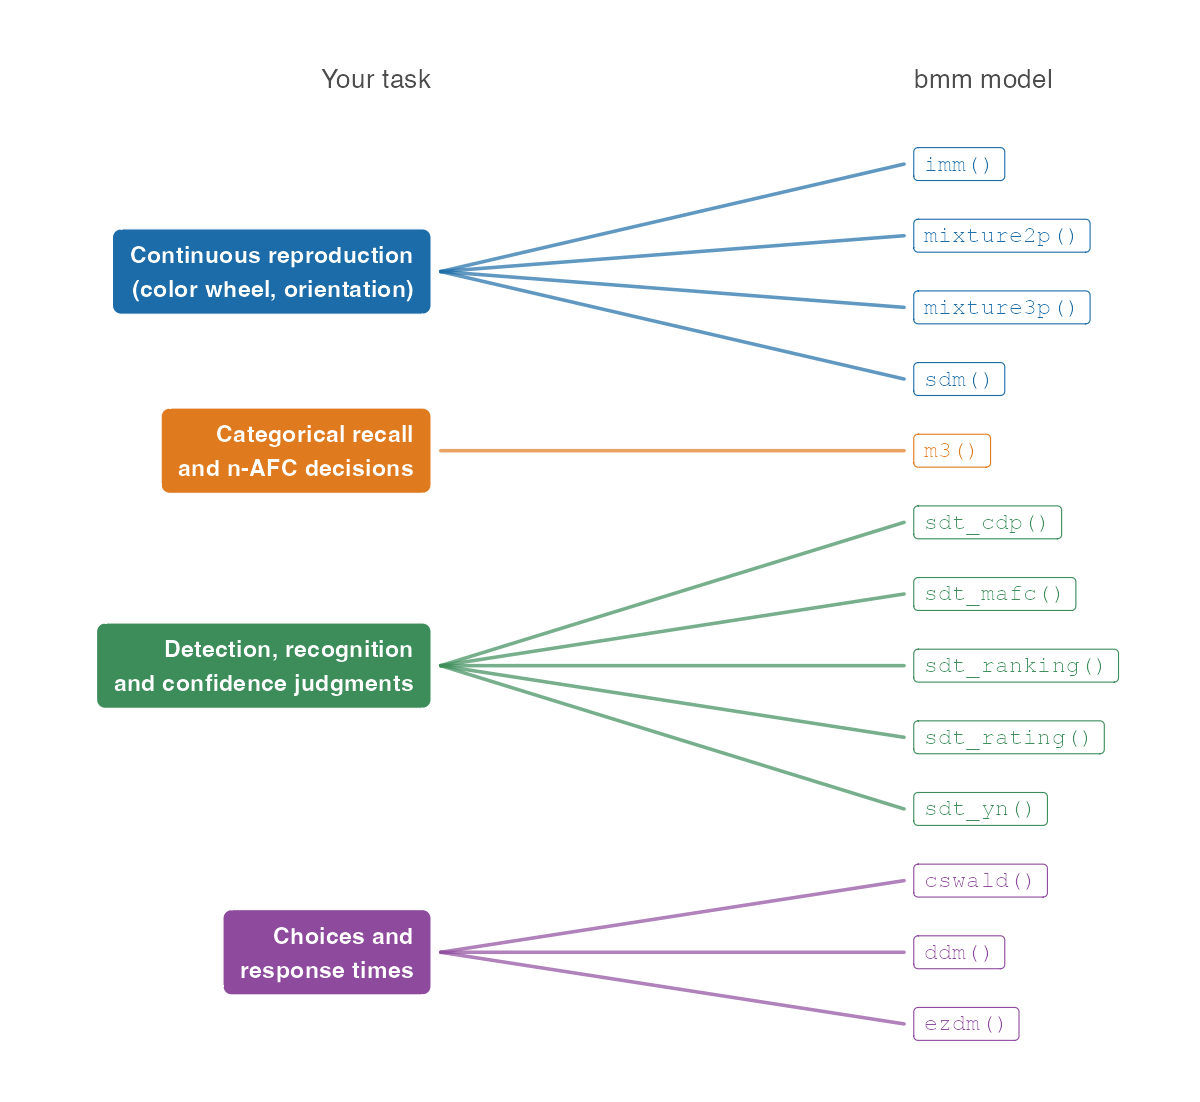
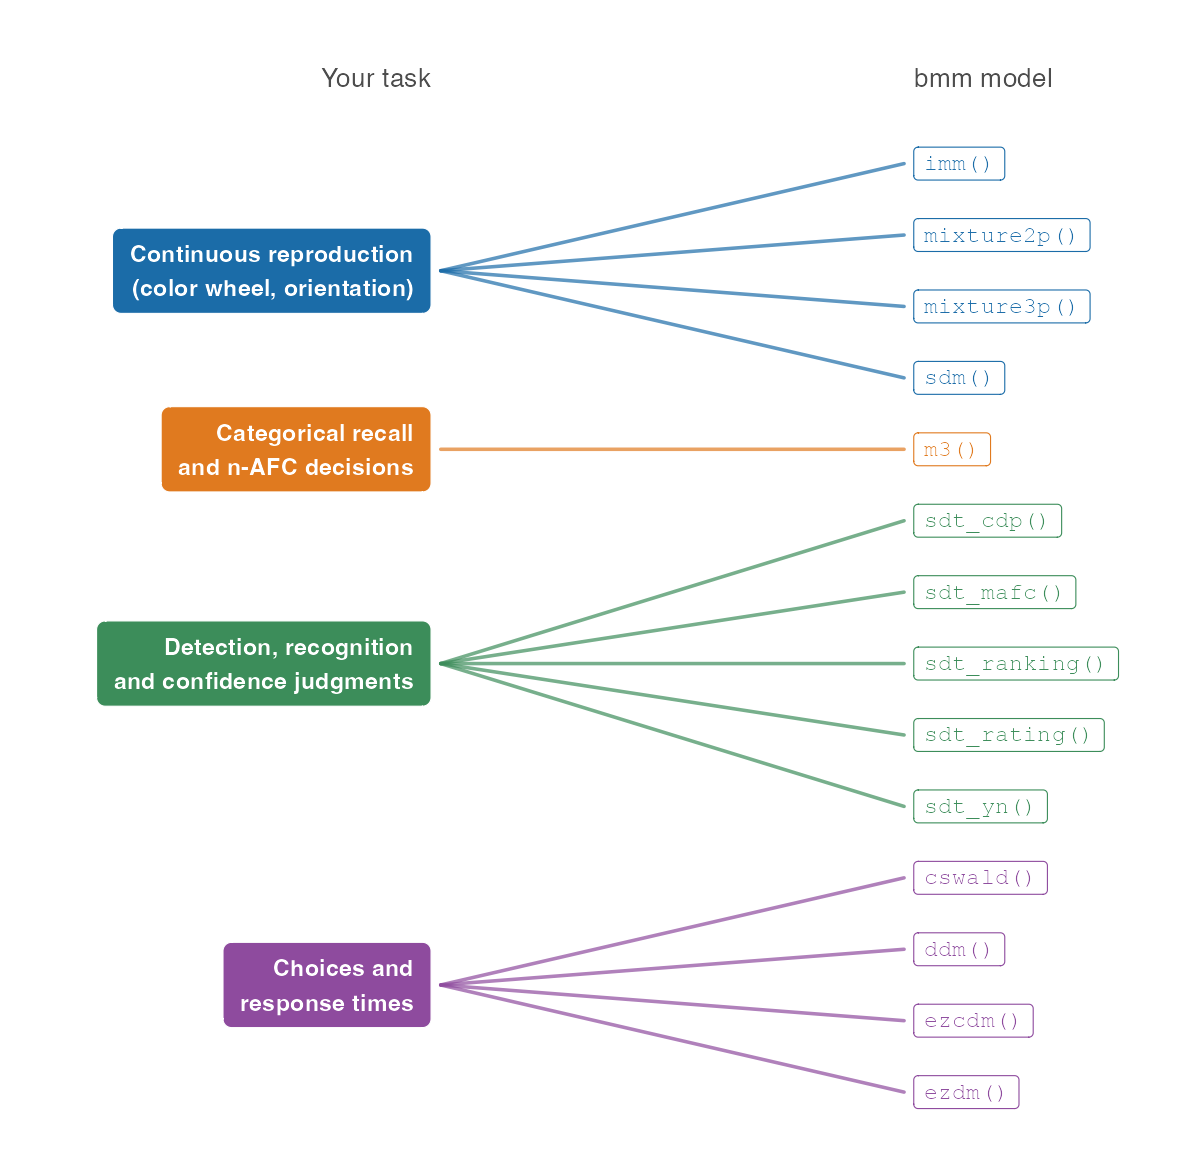
docs(ezcdm): list ezcdm in the model overview, README and task map (#150)
data_column_roles gains the ezcdm entry that the column-role test
requires (R/helpers-model.R, a shared pipeline file: a table entry only).
ezcdm falls in the "Choices and response times" group through its
domain, so the README and Get started text for that group now mention
reports on a circle and link the EZ circular diffusion article.
README.md and man/figures/README-task-map.png are regenerated with
devtools::build_readme() and local/readme_task_map.R; the RT-group test
in test-helpers-model.R now accepts ezcdm().

diff --git a/README.md b/README.md
@@ -86,13 +86,15 @@ each model offers.
 - [`sdt_yn()`](https://popov-lab.github.io/bmm/reference/sdt_yn.html):
   Signal Detection Theory (Yes/No)
 
-**Choices and response times.** Participants choose between two options
-and the response time is recorded, either on every trial or as means and
-variances per condition. See the
+**Choices and response times.** Participants choose between two options,
+or report a direction on a circle, and the response time is recorded,
+either on every trial or as means and variances per condition. See the
 [DDM](https://popov-lab.github.io/bmm/articles/bmm_ddm.html), [censored
 shifted Wald](https://popov-lab.github.io/bmm/articles/bmm_cswald.html),
-[EZ-diffusion](https://popov-lab.github.io/bmm/articles/bmm_ezdm.html)
-and [response time
+[EZ-diffusion](https://popov-lab.github.io/bmm/articles/bmm_ezdm.html),
+[EZ circular
+diffusion](https://popov-lab.github.io/bmm/articles/bmm_ezcdm.html) and
+[response time
 contamination](https://popov-lab.github.io/bmm/articles/bmm_rt_contamination.html)
 articles.
 
@@ -100,6 +102,8 @@ articles.
   Censored-Shifted Wald Model
 - [`ddm()`](https://popov-lab.github.io/bmm/reference/ddm.html):
   Diffusion Decision Model
+- [`ezcdm()`](https://popov-lab.github.io/bmm/reference/ezcdm.html): EZ
+  Circular Diffusion Model
 - [`ezdm()`](https://popov-lab.github.io/bmm/reference/ezdm.html):
   EZ-Diffusion Model
 
